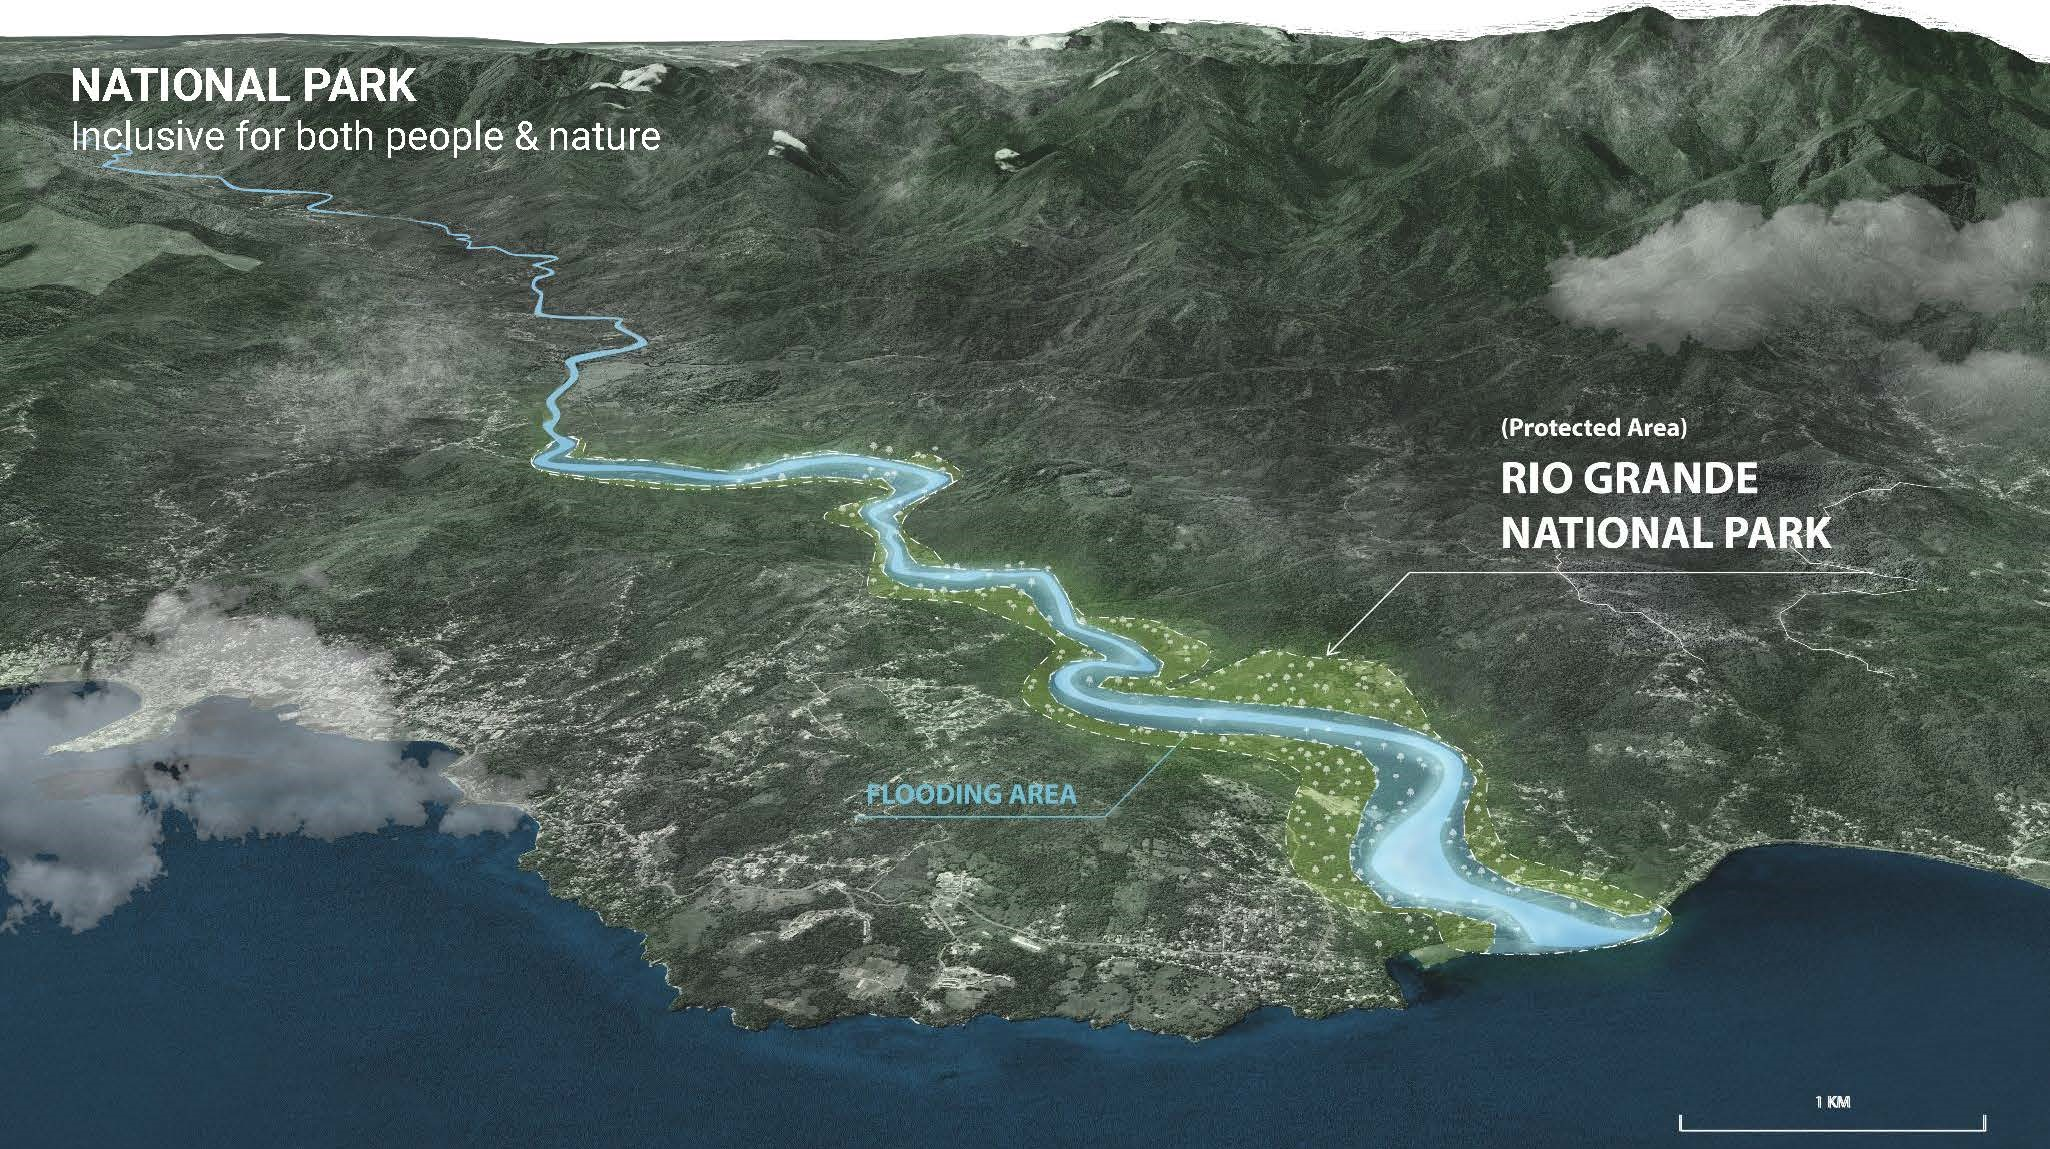
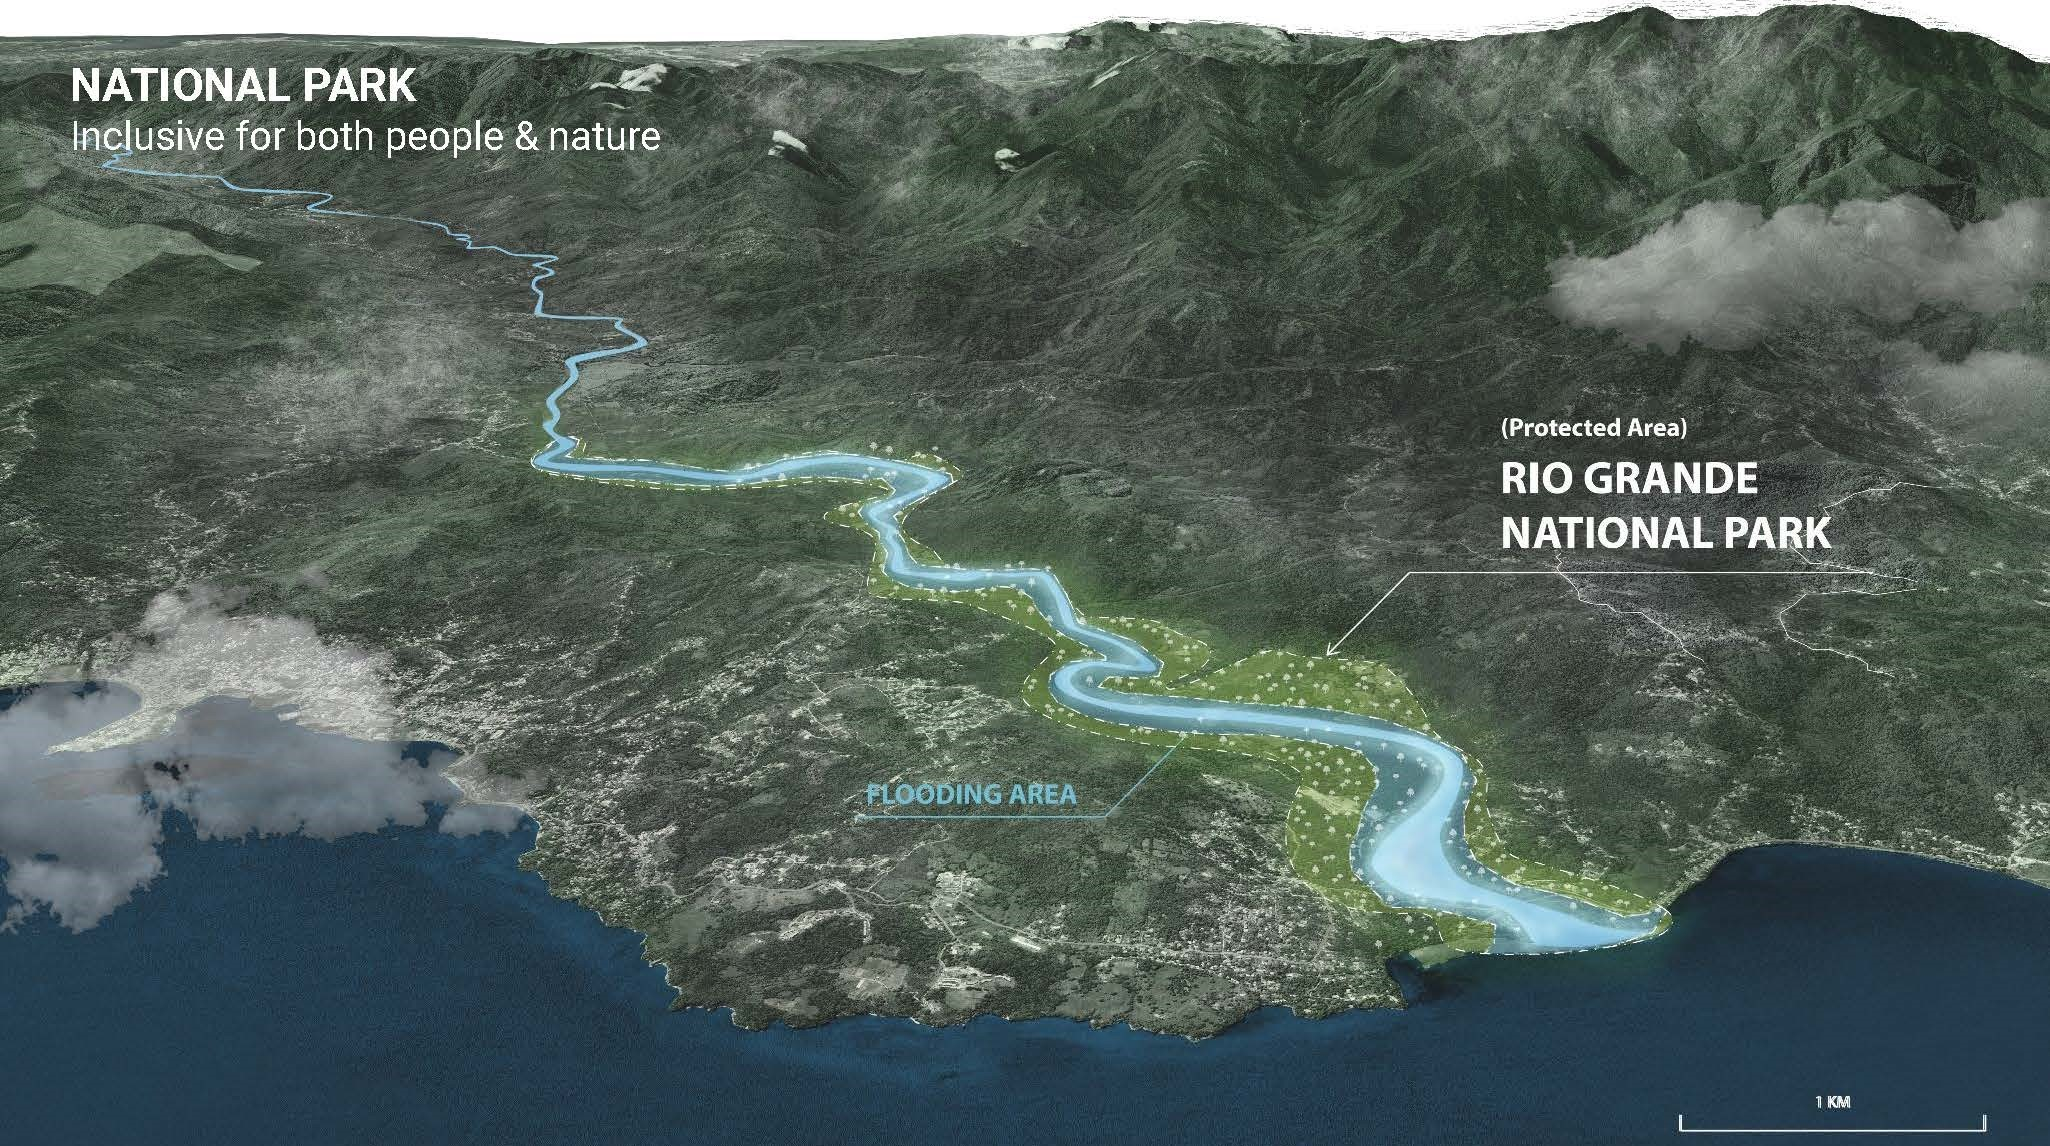
111

diff --git a/WorkList.html b/WorkList.html
@@ -180,7 +180,7 @@
                         href="javascript:void(0);" >
                             <a href="https://bl3004.github.io/bl3004_homepage/All/RegenerativeRioGrande/RegenerativeRioGrande.html">
                         <div class="portfolio-box">
-                            <div class="portfolio-box-img"><img src="./WorkList/Images/00.png" class="img-fluid"
+                            <div class="portfolio-box-img"><img src="./WorkList/Images/00.jpg" class="img-fluid"
                                     alt="00"></div>
                             <div class="portfolio-box-detail">
                                 <p>Academic-Concept(in progress)</p>
